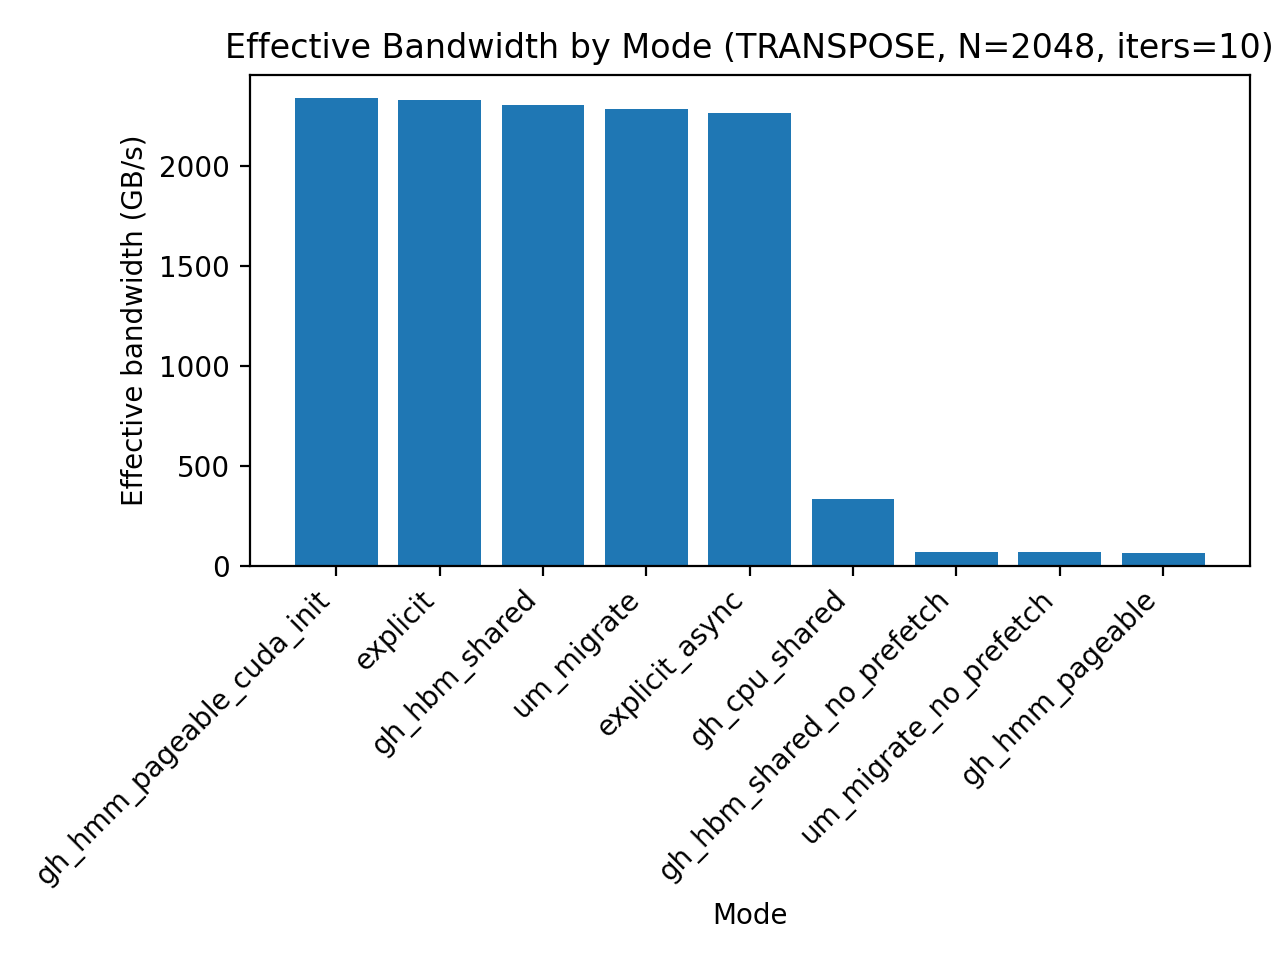
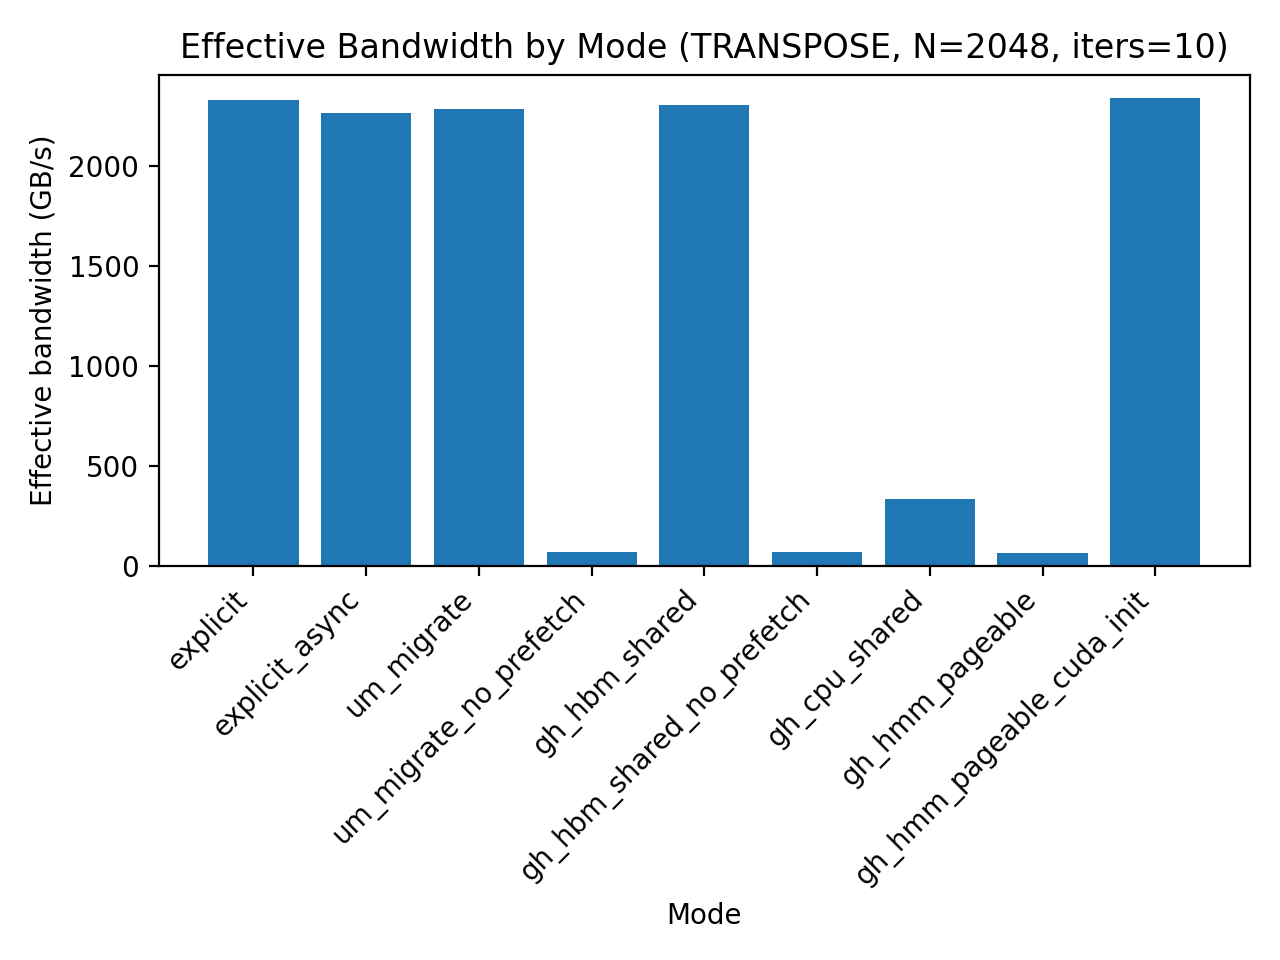
some plotting fixes

diff --git a/transpose/results/plot_transpose.py b/transpose/results/plot_transpose.py
@@ -70,7 +70,7 @@ def _all_pairs(df, cols=("N","iters")):
         return []
     pairs = (
         df.drop_duplicates(list(cols))[list(cols)]
-        .sort_values(list(cols))
+        #.sort_values(list(cols))
         .itertuples(index=False, name=None)
     )
     return list(pairs)
@@ -82,8 +82,7 @@ def _pick_pair(sweep_df: pd.DataFrame, n: int = None, iters: int = None):
         return None, None
     # pick the largest (N, iters) pair present
     largest_pair = (
-        sweep_df.sort_values(["N", "iters"])
-        .drop_duplicates(["N", "iters"], keep="last")[["N", "iters"]]
+        sweep_df.drop_duplicates(["N", "iters"], keep="last")[["N", "iters"]]
         .iloc[-1]
     )
     return int(largest_pair["N"]), int(largest_pair["iters"])
@@ -92,7 +91,7 @@ def _pick_pair(sweep_df: pd.DataFrame, n: int = None, iters: int = None):
 def _bar_by_mode(sub: pd.DataFrame, value_col: str, title: str, ylabel: str, outpath: Path, show: bool):
     if sub.empty:
         return None
-    sub = sub.sort_values(value_col, ascending=False)
+    #sub = sub.sort_values(value_col, ascending=False)
     plt.figure()
     plt.bar(sub["mode"], sub[value_col])
     plt.title(title)
